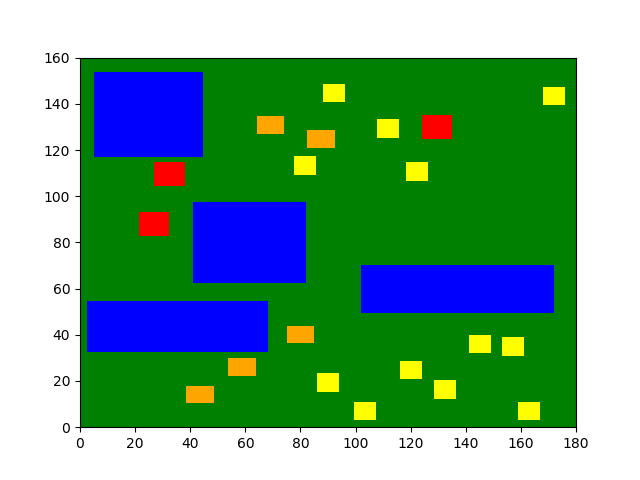
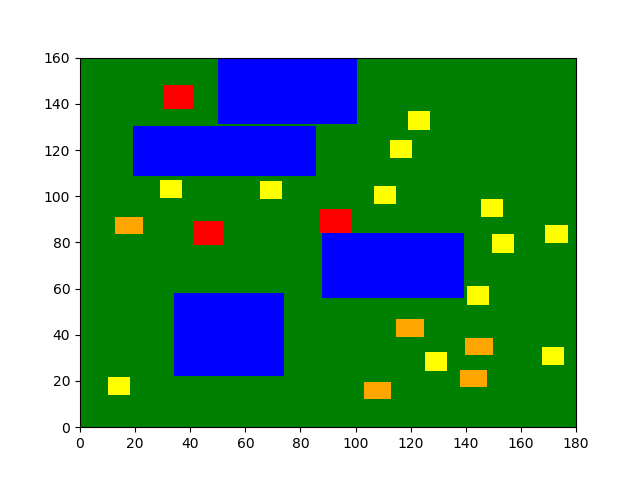
random water

diff --git a/Classes/map.py b/Classes/map.py
@@ -48,17 +48,6 @@ class Map(object):
 		return construction
 
 
-	def rand_loc_water(self):
-		'''generates random location'''
-
-		loc = {'x' : random.uniform((0 + 0.5 * water.width), \
-				  	(MAP_20['width'] - 0.5 * water.width)), \
-			   'y' : random.uniform((0 + 0.5 * water.height), \
-		  			(MAP_20['height'] - 0.5 * water.height))}
-
-		return loc
-
-
 	def place_house(self, index, loc):
 
 		# copy the house to be placed
@@ -151,7 +140,7 @@ class Map(object):
 		del self.houses[index]
 
 
-	def place_water_random(self, nr_water, index, loc):
+	def place_water_random(self, index, nr_water):
 		'''Places water on the map
 
 		Input arguments:
@@ -159,12 +148,12 @@ class Map(object):
 		water_id -- id corresponding to the water body being placed
 		'''
 
-		i = 0
-
-		from __import__ import Water
+		from __import__ import Water, MAP_20
 
 		# allowed = False
 		tmp_list = []
+
+		i = 0
 
         # create random x and y for water body
 		y = numpy.random.uniform((numpy.sqrt((self.water_prev
@@ -177,7 +166,12 @@ class Map(object):
 
 		index = i
 
-		new_water = Water(index, size)
+		loc = {'x' : numpy.random.uniform((0 + 0.5 * x), \
+				  	(MAP_20['width'] - 0.5 * x)), \
+			   'y' : numpy.random.uniform((0 + 0.5 * y), \
+		  			(MAP_20['height'] - 0.5 * y))}
+
+		new_water = Water(index, size, loc)
 
 		tmp_list.append(new_water)
 
@@ -222,6 +216,8 @@ class Map(object):
 
 	def place_water(self, index, nr_water):
 
+		from __import__ import Water, House, MAP_20
+
         # create dummy house
 		d_house = House(100,MAP_20['types_houses'][0], None)
 
@@ -239,7 +235,9 @@ class Map(object):
         # calculate total water body
 		area = (self.water_prev * self.width * self.height)
 
-		while len(self.water) < 4: #and area =! 0
+		i = 0
+
+		for i in range(nr_water):
 
 			j = j - i
 
@@ -258,6 +256,8 @@ class Map(object):
 			new_water = Water(index, size, best_loc)
 
 			tmp_list.append(new_water)
+
+			i -= 1
 
 			if ((width / height) < 0.25) & ((width / height) > 4):
 				return False

diff --git a/Algorithms/helpers.py b/Algorithms/helpers.py
@@ -13,30 +13,12 @@ def random_generator(map_charac):
 
 	out_map = Map(map_charac)
 
-<<<<<<< HEAD
-	# nr_water = 4
-	# i = 0
-    #
-	# while len(out_map.water) < nr_water:
-	# 	out_map.place_water(nr_water, i)
-	# 	i += 1
-    #
-	# opp = 0
-    #
-	# for water in out_map.water:
-	# 	opp = opp + (water.width * water.height)
-    #
-	# print(opp)
-=======
 	i = 0
 	nr_water = 4
 
-	# for i in range(nr_water):
-	while len(out_map.water) < nr_water:
-		out_map.place_water(nr_water, i)
+	while len(out_map.water) < 4:
+		out_map.place_water_random(i, nr_water)
 		i += 1
-
->>>>>>> 885fb81582d45d81e304762fdcb14eaaab977961
 
 	for i in range(len(out_map.construction)):
 
@@ -49,5 +31,8 @@ def random_generator(map_charac):
 				   'y' : random.uniform(0, out_map.height)}
 
 			allowed = out_map.place_house(index, loc)
+
+	# # while len(out_map.water) < nr_water:
+	# out_map.place_water(i, nr_water)
 
 	return out_map
